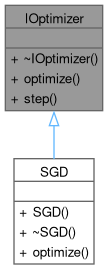
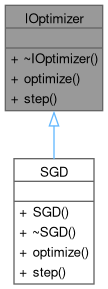
deploy: bba04f75838937ddf0f0a16c9330856fe3a27799

Changed region(s): [[0.1111, 0.5353, 0.8889, 1.0], [0.0278, 0.1487, 0.9722, 0.4758], [0.0556, 0.0, 0.9444, 0.119]]

diff --git a/classSGD.html b/classSGD.html
@@ -126,9 +126,9 @@ Dijagram klasa za SGD</div>
 <div class="dyncontent">
 <div class="center"><img src="classSGD__inherit__graph.png" border="0" usemap="#aSGD_inherit__map" alt="Inheritance graph"/></div>
 <map name="aSGD_inherit__map" id="aSGD_inherit__map">
-<area shape="rect" title="implementacija stohastičkog gradijentnog spusta:" alt="" coords="14,159,94,264"/>
+<area shape="rect" title="implementacija stohastičkog gradijentnog spusta:" alt="" coords="14,159,94,284"/>
 <area shape="rect" href="classIOptimizer.html" title="apstraktna klasa koja definira sučelje za optimizatore" alt="" coords="5,5,103,111"/>
-<area shape="poly" title=" " alt="" coords="57,125,57,159,51,159,51,125"/>
+<area shape="poly" title=" " alt="" coords="57,126,57,159,51,159,51,126"/>
 </map>
 </div>
 <div class="dynheader">
@@ -136,9 +136,9 @@ Kolaboracijski dijagram za SGD:</div>
 <div class="dyncontent">
 <div class="center"><img src="classSGD__coll__graph.png" border="0" usemap="#aSGD_coll__map" alt="Collaboration graph"/></div>
 <map name="aSGD_coll__map" id="aSGD_coll__map">
-<area shape="rect" title="implementacija stohastičkog gradijentnog spusta:" alt="" coords="14,159,94,264"/>
+<area shape="rect" title="implementacija stohastičkog gradijentnog spusta:" alt="" coords="14,159,94,284"/>
 <area shape="rect" href="classIOptimizer.html" title="apstraktna klasa koja definira sučelje za optimizatore" alt="" coords="5,5,103,111"/>
-<area shape="poly" title=" " alt="" coords="57,125,57,159,51,159,51,125"/>
+<area shape="poly" title=" " alt="" coords="57,126,57,159,51,159,51,126"/>
 </map>
 </div>
 <table class="memberdecls">
@@ -154,15 +154,14 @@ virtual&#160;</td><td class="memItemRight" valign="bottom"><b>~SGD</b> () overri
 <tr class="memitem:aa4e35184c65a2759cea568278abe4db3" id="r_aa4e35184c65a2759cea568278abe4db3"><td class="memItemLeft" align="right" valign="top">void&#160;</td><td class="memItemRight" valign="bottom"><a class="el" href="#aa4e35184c65a2759cea568278abe4db3">optimize</a> (<a class="el" href="classMatrix.html">Matrix</a> &amp;layer_parameters, <a class="el" href="classMatrix.html">Matrix</a> &amp;layer_gradients) override final</td></tr>
 <tr class="memdesc:aa4e35184c65a2759cea568278abe4db3"><td class="mdescLeft">&#160;</td><td class="mdescRight">funkcija na temelju izračunatih parametara vrši korak optimizacije za zadanu varijablu  <br /></td></tr>
 <tr class="separator:aa4e35184c65a2759cea568278abe4db3"><td class="memSeparator" colspan="2">&#160;</td></tr>
+<tr class="memitem:a19f652623d30735a0c2344d8735b292a" id="r_a19f652623d30735a0c2344d8735b292a"><td class="memItemLeft" align="right" valign="top">void&#160;</td><td class="memItemRight" valign="bottom"><a class="el" href="#a19f652623d30735a0c2344d8735b292a">step</a> () override final</td></tr>
+<tr class="memdesc:a19f652623d30735a0c2344d8735b292a"><td class="mdescLeft">&#160;</td><td class="mdescRight">opcionalna funkcija kojoj naglasimo nekim optimizatorima da je gotova jedna iteracija radi azuriranja internog stanja  <br /></td></tr>
+<tr class="separator:a19f652623d30735a0c2344d8735b292a"><td class="memSeparator" colspan="2">&#160;</td></tr>
 <tr class="inherit_header pub_methods_classIOptimizer"><td colspan="2" onclick="javascript:dynsection.toggleInherit('pub_methods_classIOptimizer')"><img src="closed.png" alt="-"/>&#160;Public članovi naslijeđeni od <a class="el" href="classIOptimizer.html">IOptimizer</a></td></tr>
 <tr class="memitem:ab3447449003e0f06dc77b8e15eac84aa inherit pub_methods_classIOptimizer" id="r_ab3447449003e0f06dc77b8e15eac84aa"><td class="memItemLeft" align="right" valign="top">
 virtual&#160;</td><td class="memItemRight" valign="bottom"><b>~IOptimizer</b> ()=default</td></tr>
 <tr class="memdesc:ab3447449003e0f06dc77b8e15eac84aa inherit pub_methods_classIOptimizer"><td class="mdescLeft">&#160;</td><td class="mdescRight">generički virtualni destruktor kojeg izvedene klase mogu nadjačati <br /></td></tr>
 <tr class="separator:ab3447449003e0f06dc77b8e15eac84aa inherit pub_methods_classIOptimizer"><td class="memSeparator" colspan="2">&#160;</td></tr>
-<tr class="memitem:a2e357f1aacfa8819a1d5403d79e346ba inherit pub_methods_classIOptimizer" id="r_a2e357f1aacfa8819a1d5403d79e346ba"><td class="memItemLeft" align="right" valign="top">
-virtual void&#160;</td><td class="memItemRight" valign="bottom"><b>step</b> ()=0</td></tr>
-<tr class="memdesc:a2e357f1aacfa8819a1d5403d79e346ba inherit pub_methods_classIOptimizer"><td class="mdescLeft">&#160;</td><td class="mdescRight">opcionalna funkcija kojoj naglasimo nekim optimizatorima da je gotova jedna iteracija radi azuriranja internog stanja <br /></td></tr>
-<tr class="separator:a2e357f1aacfa8819a1d5403d79e346ba inherit pub_methods_classIOptimizer"><td class="memSeparator" colspan="2">&#160;</td></tr>
 </table>
 <a name="details" id="details"></a><h2 class="groupheader">Detaljno objašnjenje</h2>
 <div class="textblock"><p>implementacija stohastičkog gradijentnog spusta: \( w \coloneq  w - \eta \nabla Q(w) \) </p>
@@ -236,6 +235,35 @@ virtual void&#160;</td><td class="memItemRight" valign="bottom"><b>step</b> ()=0
 </dl>
 
 <p>Implementira <a class="el" href="classIOptimizer.html#a7c308b231b1b6da7511ddc9bfe901430">IOptimizer</a>.</p>
+
+</div>
+</div>
+<a id="a19f652623d30735a0c2344d8735b292a" name="a19f652623d30735a0c2344d8735b292a"></a>
+<h2 class="memtitle"><span class="permalink"><a href="#a19f652623d30735a0c2344d8735b292a">&#9670;&#160;</a></span>step()</h2>
+
+<div class="memitem">
+<div class="memproto">
+<table class="mlabels">
+  <tr>
+  <td class="mlabels-left">
+      <table class="memname">
+        <tr>
+          <td class="memname">void SGD::step </td>
+          <td>(</td>
+          <td class="paramname"><span class="paramname"></span></td><td>)</td>
+          <td></td>
+        </tr>
+      </table>
+  </td>
+  <td class="mlabels-right">
+<span class="mlabels"><span class="mlabel">final</span><span class="mlabel">override</span><span class="mlabel">virtual</span></span>  </td>
+  </tr>
+</table>
+</div><div class="memdoc">
+
+<p>opcionalna funkcija kojoj naglasimo nekim optimizatorima da je gotova jedna iteracija radi azuriranja internog stanja </p>
+
+<p>Implementira <a class="el" href="classIOptimizer.html#a2e357f1aacfa8819a1d5403d79e346ba">IOptimizer</a>.</p>
 
 </div>
 </div>

diff --git a/classIOptimizer.html b/classIOptimizer.html
@@ -127,8 +127,8 @@ Dijagram klasa za IOptimizer</div>
 <div class="center"><img src="classIOptimizer__inherit__graph.png" border="0" usemap="#aIOptimizer_inherit__map" alt="Inheritance graph"/></div>
 <map name="aIOptimizer_inherit__map" id="aIOptimizer_inherit__map">
 <area shape="rect" title="apstraktna klasa koja definira sučelje za optimizatore" alt="" coords="5,5,103,111"/>
-<area shape="rect" href="classSGD.html" title="implementacija stohastičkog gradijentnog spusta:" alt="" coords="14,159,94,264"/>
-<area shape="poly" title=" " alt="" coords="57,125,57,159,51,159,51,125"/>
+<area shape="rect" href="classSGD.html" title="implementacija stohastičkog gradijentnog spusta:" alt="" coords="14,159,94,284"/>
+<area shape="poly" title=" " alt="" coords="57,126,57,159,51,159,51,126"/>
 </map>
 </div>
 <div class="dynheader">
@@ -149,9 +149,8 @@ virtual&#160;</td><td class="memItemRight" valign="bottom"><b>~IOptimizer</b> ()
 <tr class="memitem:a7c308b231b1b6da7511ddc9bfe901430" id="r_a7c308b231b1b6da7511ddc9bfe901430"><td class="memItemLeft" align="right" valign="top">virtual void&#160;</td><td class="memItemRight" valign="bottom"><a class="el" href="#a7c308b231b1b6da7511ddc9bfe901430">optimize</a> (<a class="el" href="classMatrix.html">Matrix</a> &amp;layer_parameters, <a class="el" href="classMatrix.html">Matrix</a> &amp;layer_gradients)=0</td></tr>
 <tr class="memdesc:a7c308b231b1b6da7511ddc9bfe901430"><td class="mdescLeft">&#160;</td><td class="mdescRight">funkcija na temelju izračunatih parametara vrši korak optimizacije za zadanu varijablu  <br /></td></tr>
 <tr class="separator:a7c308b231b1b6da7511ddc9bfe901430"><td class="memSeparator" colspan="2">&#160;</td></tr>
-<tr class="memitem:a2e357f1aacfa8819a1d5403d79e346ba" id="r_a2e357f1aacfa8819a1d5403d79e346ba"><td class="memItemLeft" align="right" valign="top"><a id="a2e357f1aacfa8819a1d5403d79e346ba" name="a2e357f1aacfa8819a1d5403d79e346ba"></a>
-virtual void&#160;</td><td class="memItemRight" valign="bottom"><b>step</b> ()=0</td></tr>
-<tr class="memdesc:a2e357f1aacfa8819a1d5403d79e346ba"><td class="mdescLeft">&#160;</td><td class="mdescRight">opcionalna funkcija kojoj naglasimo nekim optimizatorima da je gotova jedna iteracija radi azuriranja internog stanja <br /></td></tr>
+<tr class="memitem:a2e357f1aacfa8819a1d5403d79e346ba" id="r_a2e357f1aacfa8819a1d5403d79e346ba"><td class="memItemLeft" align="right" valign="top">virtual void&#160;</td><td class="memItemRight" valign="bottom"><a class="el" href="#a2e357f1aacfa8819a1d5403d79e346ba">step</a> ()=0</td></tr>
+<tr class="memdesc:a2e357f1aacfa8819a1d5403d79e346ba"><td class="mdescLeft">&#160;</td><td class="mdescRight">opcionalna funkcija kojoj naglasimo nekim optimizatorima da je gotova jedna iteracija radi azuriranja internog stanja  <br /></td></tr>
 <tr class="separator:a2e357f1aacfa8819a1d5403d79e346ba"><td class="memSeparator" colspan="2">&#160;</td></tr>
 </table>
 <a name="details" id="details"></a><h2 class="groupheader">Detaljno objašnjenje</h2>
@@ -201,6 +200,35 @@ virtual void&#160;</td><td class="memItemRight" valign="bottom"><b>step</b> ()=0
 </dl>
 
 <p>Implementirano u <a class="el" href="classSGD.html#aa4e35184c65a2759cea568278abe4db3">SGD</a>.</p>
+
+</div>
+</div>
+<a id="a2e357f1aacfa8819a1d5403d79e346ba" name="a2e357f1aacfa8819a1d5403d79e346ba"></a>
+<h2 class="memtitle"><span class="permalink"><a href="#a2e357f1aacfa8819a1d5403d79e346ba">&#9670;&#160;</a></span>step()</h2>
+
+<div class="memitem">
+<div class="memproto">
+<table class="mlabels">
+  <tr>
+  <td class="mlabels-left">
+      <table class="memname">
+        <tr>
+          <td class="memname">virtual void IOptimizer::step </td>
+          <td>(</td>
+          <td class="paramname"><span class="paramname"></span></td><td>)</td>
+          <td></td>
+        </tr>
+      </table>
+  </td>
+  <td class="mlabels-right">
+<span class="mlabels"><span class="mlabel">pure virtual</span></span>  </td>
+  </tr>
+</table>
+</div><div class="memdoc">
+
+<p>opcionalna funkcija kojoj naglasimo nekim optimizatorima da je gotova jedna iteracija radi azuriranja internog stanja </p>
+
+<p>Implementirano u <a class="el" href="classSGD.html#a19f652623d30735a0c2344d8735b292a">SGD</a>.</p>
 
 </div>
 </div>

diff --git a/SGD_8h_source.html b/SGD_8h_source.html
@@ -136,12 +136,15 @@ $(function(){initNavTree('SGD_8h_source.html',''); initResizable(); });
 <div class="line"><a id="l00041" name="l00041"></a><span class="lineno">   41</span>    <span class="keyword">virtual</span> <a class="code hl_function" href="classSGD.html#a1f858ebde5ee268f6c2433693a982d8a">~SGD</a>() <span class="keyword">override</span>;</div>
 <div class="line"><a id="l00042" name="l00042"></a><span class="lineno">   42</span>    </div>
 <div class="line"><a id="l00043" name="l00043"></a><span class="lineno">   43</span>    <span class="keywordtype">void</span> <a class="code hl_function" href="classSGD.html#aa4e35184c65a2759cea568278abe4db3">optimize</a>(<a class="code hl_class" href="classMatrix.html">Matrix</a> &amp;layer_parameters, <a class="code hl_class" href="classMatrix.html">Matrix</a> &amp;layer_gradients) <span class="keyword">override</span> <span class="keyword">final</span>;</div>
-<div class="line"><a id="l00044" name="l00044"></a><span class="lineno">   44</span>};</div>
+<div class="line"><a id="l00044" name="l00044"></a><span class="lineno">   44</span> </div>
+<div class="line"><a id="l00045" name="l00045"></a><span class="lineno">   45</span>    <span class="keywordtype">void</span> <a class="code hl_function" href="classSGD.html#a19f652623d30735a0c2344d8735b292a">step</a>() <span class="keyword">override</span> <span class="keyword">final</span>;</div>
+<div class="line"><a id="l00046" name="l00046"></a><span class="lineno">   46</span>};</div>
 </div>
 <div class="ttc" id="aIOptimizer_8h_html"><div class="ttname"><a href="IOptimizer_8h.html">IOptimizer.h</a></div><div class="ttdoc">definicija sučelja IOptimizer</div></div>
 <div class="ttc" id="aclassIOptimizer_html"><div class="ttname"><a href="classIOptimizer.html">IOptimizer</a></div><div class="ttdoc">apstraktna klasa koja definira sučelje za optimizatore</div><div class="ttdef"><b>Definition</b> IOptimizer.h:17</div></div>
 <div class="ttc" id="aclassMatrix_html"><div class="ttname"><a href="classMatrix.html">Matrix</a></div><div class="ttdoc">klasa koja enkapsulira podatke o matrici koji su spremljeni na povezanom OpenCL uređaju</div><div class="ttdef"><b>Definition</b> Matrix.h:20</div></div>
 <div class="ttc" id="aclassSGD_html"><div class="ttname"><a href="classSGD.html">SGD</a></div><div class="ttdoc">implementacija stohastičkog gradijentnog spusta:</div><div class="ttdef"><b>Definition</b> SGD.h:14</div></div>
+<div class="ttc" id="aclassSGD_html_a19f652623d30735a0c2344d8735b292a"><div class="ttname"><a href="classSGD.html#a19f652623d30735a0c2344d8735b292a">SGD::step</a></div><div class="ttdeci">void step() override final</div><div class="ttdoc">opcionalna funkcija kojoj naglasimo nekim optimizatorima da je gotova jedna iteracija radi azuriranja...</div><div class="ttdef"><b>Definition</b> SGD.cpp:56</div></div>
 <div class="ttc" id="aclassSGD_html_a1f858ebde5ee268f6c2433693a982d8a"><div class="ttname"><a href="classSGD.html#a1f858ebde5ee268f6c2433693a982d8a">SGD::~SGD</a></div><div class="ttdeci">virtual ~SGD() override</div><div class="ttdoc">implementacija destruktora koja oslobađa OpenCL objekte</div><div class="ttdef"><b>Definition</b> SGD.cpp:16</div></div>
 <div class="ttc" id="aclassSGD_html_a20541c4b59f2b2caffc9fc5162975d46"><div class="ttname"><a href="classSGD.html#a20541c4b59f2b2caffc9fc5162975d46">SGD::SGD</a></div><div class="ttdeci">SGD(float learning_rate)</div><div class="ttdoc">konstruktor koji prima faktor učenja kao argument</div><div class="ttdef"><b>Definition</b> SGD.cpp:14</div></div>
 <div class="ttc" id="aclassSGD_html_aa4e35184c65a2759cea568278abe4db3"><div class="ttname"><a href="classSGD.html#aa4e35184c65a2759cea568278abe4db3">SGD::optimize</a></div><div class="ttdeci">void optimize(Matrix &amp;layer_parameters, Matrix &amp;layer_gradients) override final</div><div class="ttdoc">funkcija na temelju izračunatih parametara vrši korak optimizacije za zadanu varijablu</div><div class="ttdef"><b>Definition</b> SGD.cpp:29</div></div>

diff --git a/classSGD-members.html b/classSGD-members.html
@@ -118,7 +118,7 @@ $(function(){initNavTree('classSGD.html',''); initResizable(); });
 <table class="directory">
   <tr class="even"><td class="entry"><a class="el" href="classSGD.html#aa4e35184c65a2759cea568278abe4db3">optimize</a>(Matrix &amp;layer_parameters, Matrix &amp;layer_gradients) override final</td><td class="entry"><a class="el" href="classSGD.html">SGD</a></td><td class="entry"><span class="mlabel">virtual</span></td></tr>
   <tr class="odd"><td class="entry"><a class="el" href="classSGD.html#a20541c4b59f2b2caffc9fc5162975d46">SGD</a>(float learning_rate)</td><td class="entry"><a class="el" href="classSGD.html">SGD</a></td><td class="entry"></td></tr>
-  <tr class="even"><td class="entry"><a class="el" href="classIOptimizer.html#a2e357f1aacfa8819a1d5403d79e346ba">step</a>()=0</td><td class="entry"><a class="el" href="classIOptimizer.html">IOptimizer</a></td><td class="entry"><span class="mlabel">pure virtual</span></td></tr>
+  <tr class="even"><td class="entry"><a class="el" href="classSGD.html#a19f652623d30735a0c2344d8735b292a">step</a>() override final</td><td class="entry"><a class="el" href="classSGD.html">SGD</a></td><td class="entry"><span class="mlabel">virtual</span></td></tr>
   <tr class="odd"><td class="entry"><a class="el" href="classIOptimizer.html#ab3447449003e0f06dc77b8e15eac84aa">~IOptimizer</a>()=default</td><td class="entry"><a class="el" href="classIOptimizer.html">IOptimizer</a></td><td class="entry"><span class="mlabel">virtual</span></td></tr>
   <tr class="even"><td class="entry"><a class="el" href="classSGD.html#a1f858ebde5ee268f6c2433693a982d8a">~SGD</a>() override</td><td class="entry"><a class="el" href="classSGD.html">SGD</a></td><td class="entry"><span class="mlabel">virtual</span></td></tr>
 </table></div><!-- contents -->

diff --git a/functions_func.html b/functions_func.html
@@ -178,7 +178,7 @@ $(function(){initNavTree('functions_func.html',''); initResizable(); });
 <h3><a id="index_s" name="index_s"></a>- s -</h3><ul>
 <li>SGD()&#160;:&#160;<a class="el" href="classSGD.html#a20541c4b59f2b2caffc9fc5162975d46">SGD</a></li>
 <li>Sigmoid()&#160;:&#160;<a class="el" href="classSigmoid.html#ae9a314cfc50d740d285c7b55e5e70879">Sigmoid</a></li>
-<li>step()&#160;:&#160;<a class="el" href="classIOptimizer.html#a2e357f1aacfa8819a1d5403d79e346ba">IOptimizer</a></li>
+<li>step()&#160;:&#160;<a class="el" href="classIOptimizer.html#a2e357f1aacfa8819a1d5403d79e346ba">IOptimizer</a>, <a class="el" href="classSGD.html#a19f652623d30735a0c2344d8735b292a">SGD</a></li>
 </ul>
 
 

diff --git a/functions.html b/functions.html
@@ -182,7 +182,7 @@ $(function(){initNavTree('functions.html',''); initResizable(); });
 <h3><a id="index_s" name="index_s"></a>- s -</h3><ul>
 <li>SGD()&#160;:&#160;<a class="el" href="classSGD.html#a20541c4b59f2b2caffc9fc5162975d46">SGD</a></li>
 <li>Sigmoid()&#160;:&#160;<a class="el" href="classSigmoid.html#ae9a314cfc50d740d285c7b55e5e70879">Sigmoid</a></li>
-<li>step()&#160;:&#160;<a class="el" href="classIOptimizer.html#a2e357f1aacfa8819a1d5403d79e346ba">IOptimizer</a></li>
+<li>step()&#160;:&#160;<a class="el" href="classIOptimizer.html#a2e357f1aacfa8819a1d5403d79e346ba">IOptimizer</a>, <a class="el" href="classSGD.html#a19f652623d30735a0c2344d8735b292a">SGD</a></li>
 </ul>
 
 

diff --git a/search/all_f.js b/search/all_f.js
@@ -6,6 +6,6 @@ var searchData=
   ['sigmoid_3',['Sigmoid',['../classSigmoid.html',1,'Sigmoid'],['../classSigmoid.html#ae9a314cfc50d740d285c7b55e5e70879',1,'Sigmoid::Sigmoid()']]],
   ['sigmoid_2ecpp_4',['Sigmoid.cpp',['../Sigmoid_8cpp.html',1,'']]],
   ['sigmoid_2eh_5',['Sigmoid.h',['../Sigmoid_8h.html',1,'']]],
-  ['step_6',['step',['../classIOptimizer.html#a2e357f1aacfa8819a1d5403d79e346ba',1,'IOptimizer']]],
+  ['step_6',['step',['../classIOptimizer.html#a2e357f1aacfa8819a1d5403d79e346ba',1,'IOptimizer::step()'],['../classSGD.html#a19f652623d30735a0c2344d8735b292a',1,'SGD::step()']]],
   ['sub_7',['Sub',['../structautograd_1_1Sub.html',1,'autograd']]]
 ];

diff --git a/search/functions_d.js b/search/functions_d.js
@@ -2,5 +2,5 @@ var searchData=
 [
   ['sgd_0',['SGD',['../classSGD.html#a20541c4b59f2b2caffc9fc5162975d46',1,'SGD']]],
   ['sigmoid_1',['Sigmoid',['../classSigmoid.html#ae9a314cfc50d740d285c7b55e5e70879',1,'Sigmoid']]],
-  ['step_2',['step',['../classIOptimizer.html#a2e357f1aacfa8819a1d5403d79e346ba',1,'IOptimizer']]]
+  ['step_2',['step',['../classIOptimizer.html#a2e357f1aacfa8819a1d5403d79e346ba',1,'IOptimizer::step()'],['../classSGD.html#a19f652623d30735a0c2344d8735b292a',1,'SGD::step()']]]
 ];

diff --git a/navtreeindex0.js b/navtreeindex0.js
@@ -78,6 +78,7 @@ var NAVTREEINDEX0 =
 "classReLU.html#ad86d8e2170c797bb131dcbda51b5f9a5":[1,0,7,0],
 "classReLU.html#ae369394d4553f62ca73aca8c7a86a7d6":[1,0,7,2],
 "classSGD.html":[1,0,8],
+"classSGD.html#a19f652623d30735a0c2344d8735b292a":[1,0,8,3],
 "classSGD.html#a1f858ebde5ee268f6c2433693a982d8a":[1,0,8,1],
 "classSGD.html#a20541c4b59f2b2caffc9fc5162975d46":[1,0,8,0],
 "classSGD.html#aa4e35184c65a2759cea568278abe4db3":[1,0,8,2],

diff --git a/classSGD.js b/classSGD.js
@@ -2,5 +2,6 @@ var classSGD =
 [
     [ "SGD", "classSGD.html#a20541c4b59f2b2caffc9fc5162975d46", null ],
     [ "~SGD", "classSGD.html#a1f858ebde5ee268f6c2433693a982d8a", null ],
-    [ "optimize", "classSGD.html#aa4e35184c65a2759cea568278abe4db3", null ]
+    [ "optimize", "classSGD.html#aa4e35184c65a2759cea568278abe4db3", null ],
+    [ "step", "classSGD.html#a19f652623d30735a0c2344d8735b292a", null ]
 ];
